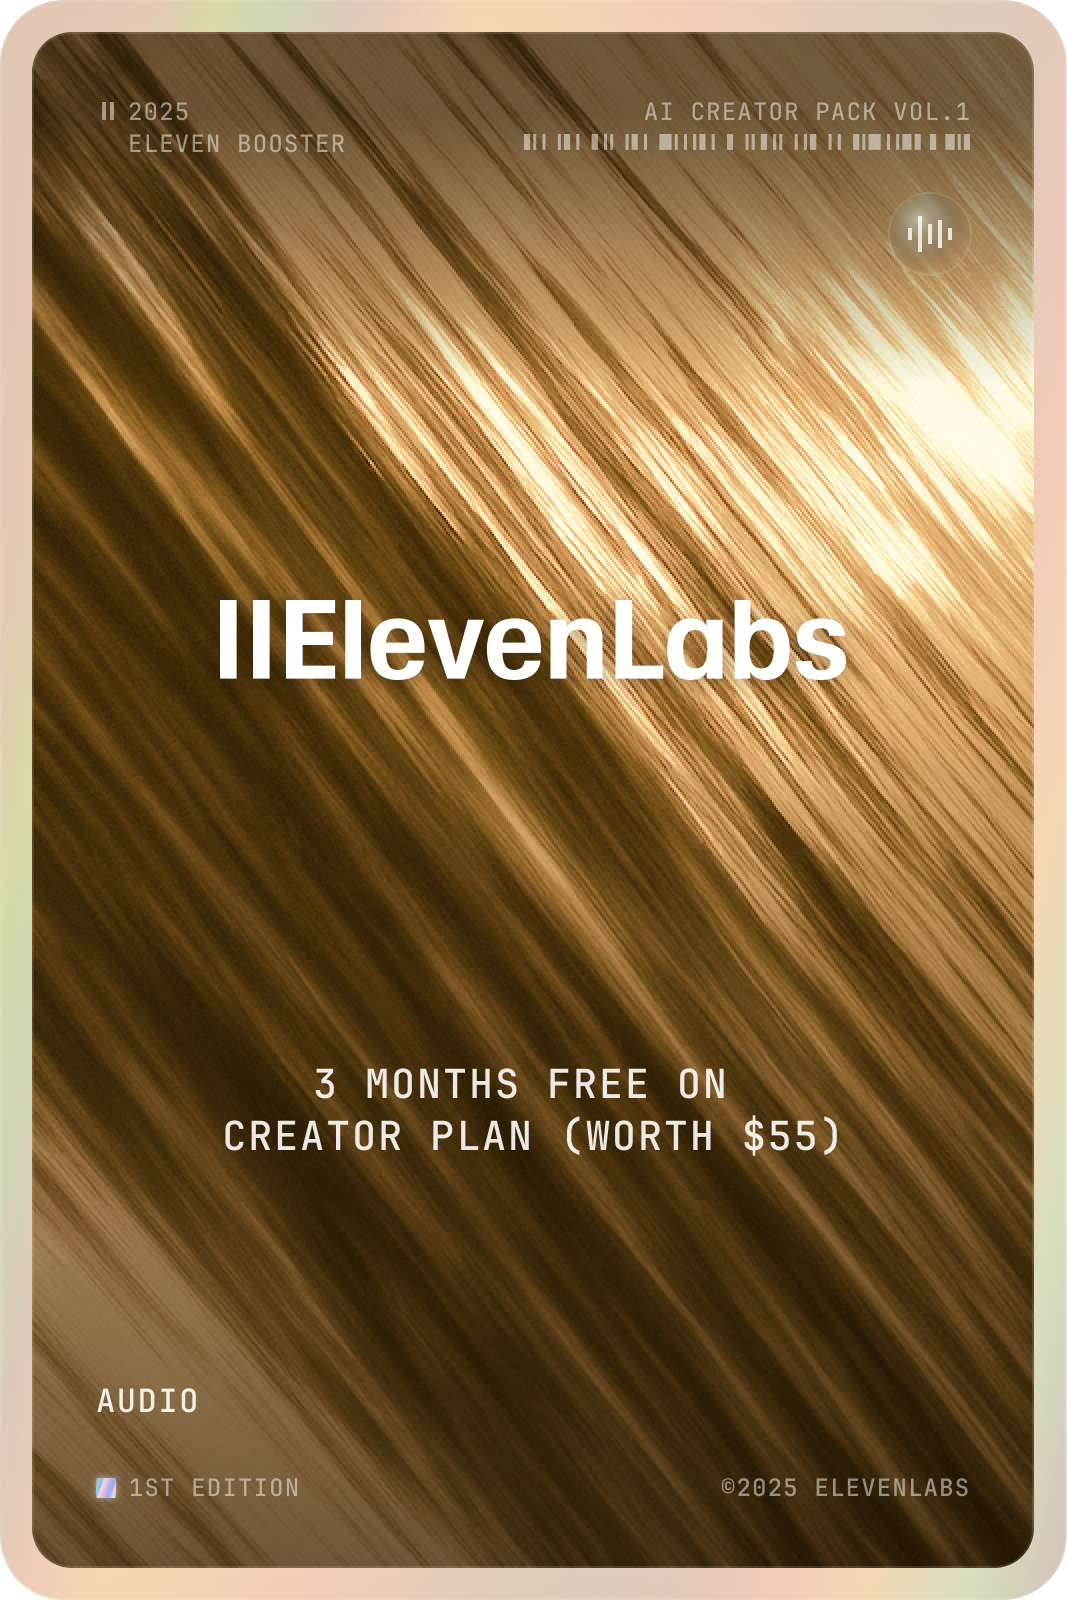
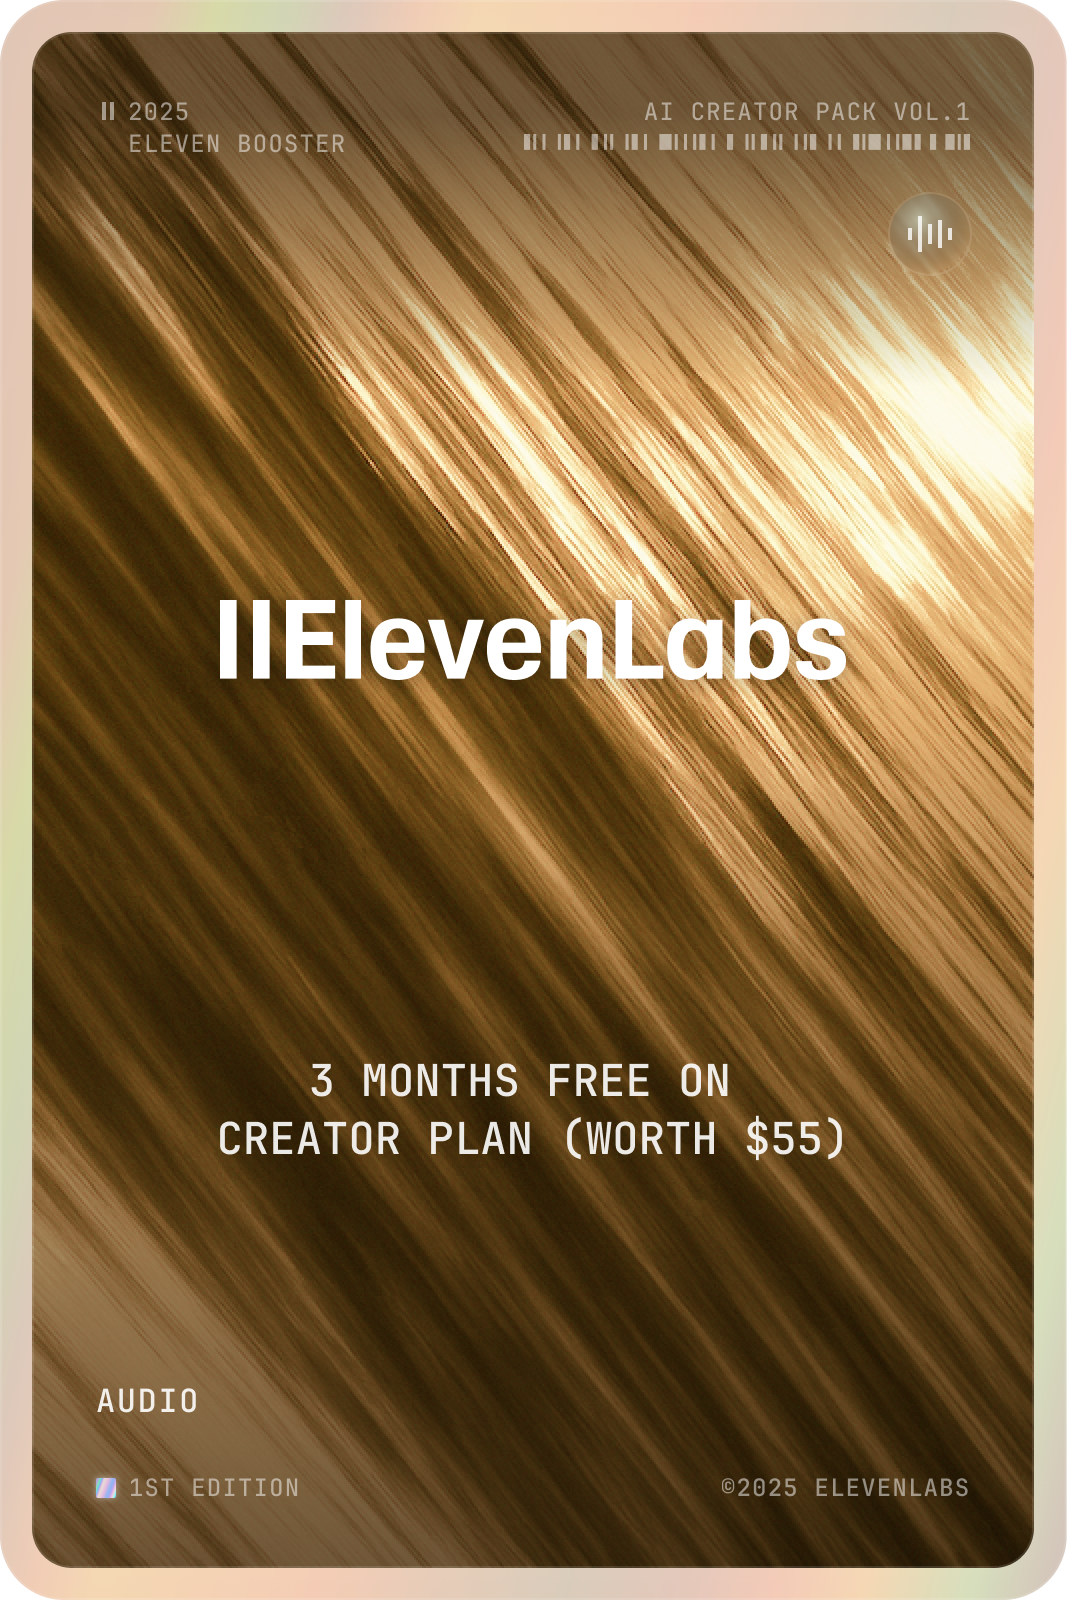
Increased size of descriptions and added another card

Changed region(s): [[0.1856, 0.6562, 0.8041, 0.7188]]

diff --git a/src/App.svelte b/src/App.svelte
@@ -209,6 +209,16 @@
 				subtypes={['Basic']}
 				rarity='rare holo vmax'
 			/>
+			<Card
+				id='8'
+				name='You?'
+				img='/cards/card-15.png'
+				number='001'
+				types={['Fire']}
+				supertype='Pokémon'
+				subtypes={['Basic']}
+				rarity='rare holo vmax'
+			/>
 		</CardList>
 	{/if}
 </main>
